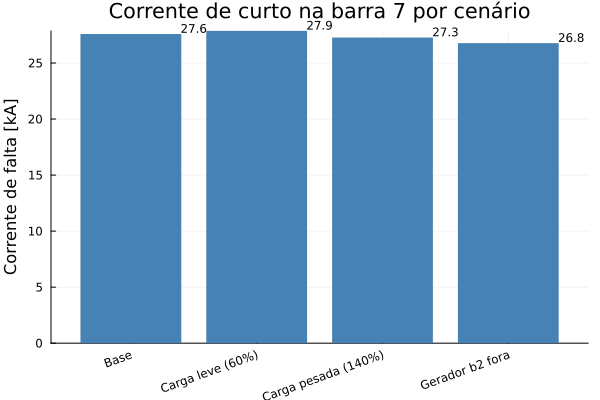
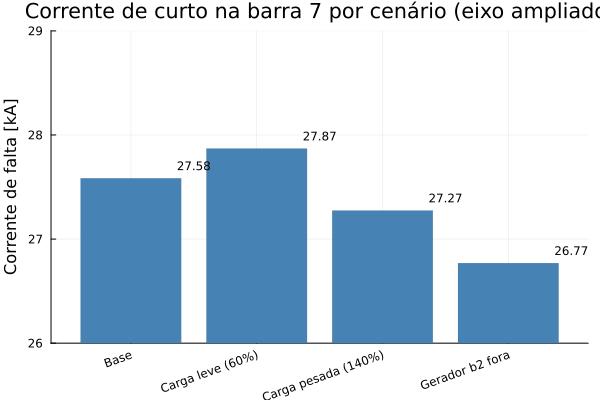
Melhora figuras dos scripts 05 e 06
- Script 05: eixo Y do gráfico de barras ampliado (zoom 26-29 kA) p/ evidenciar
  as diferenças entre cenários (~4%); título avisa "eixo ampliado"; rótulos c/ 2 casas.
- Script 06: nova figura 06_potencia_ref.png — potência elétrica do gen-1, que
  EXPLICA a deriva de velocidade (P_elét > P_mec durante a falta -> desaceleração).
  Mostra também que a FV desloca ~60 MW da geração do slack (P_mec 1.93 -> 1.29 pu),
  com P_mec por caso. Confirma a coerência da figura de velocidade.
- README: nota sobre a desaceleração e a nova figura.

diff --git a/README.md b/README.md
@@ -252,8 +252,16 @@ inversor (IBR).
 **Saídas:** figuras [06_tensao_bus7](data/figures/06_tensao_bus7.png),
 [06_tensao_pv](data/figures/06_tensao_pv.png),
 [06_velocidade_ref](data/figures/06_velocidade_ref.png),
+[06_potencia_ref](data/figures/06_potencia_ref.png),
 [06_resposta_fv](data/figures/06_resposta_fv.png); séries `06_*.csv`.
 **Atende:** segunda parte do item 6.
+
+> Sob a falta **permanente** (não eliminada, por projeto), o gerador de referência
+> **desacelera**: a [potência elétrica](data/figures/06_potencia_ref.png) que ele
+> entrega supera a mecânica (P_elét > P_mec), pois alimenta a falta e as perdas I²R
+> da rede de 69 kV. Com a FV, o gen-1 gera menos em regime (a FV desloca ~60 MW:
+> P_mec cai de 1,93 → 1,29 pu), mas o sinal de desaceleração se mantém — a FV
+> praticamente **não altera a inércia** do sistema (efeito de ordem de ~0,1 %).
 
 > **Nota numérica:** o inversor *grid-following* não tolera a eliminação brusca da
 > falta nem afundamentos muito profundos (o PLL perde sincronismo). Por isso a